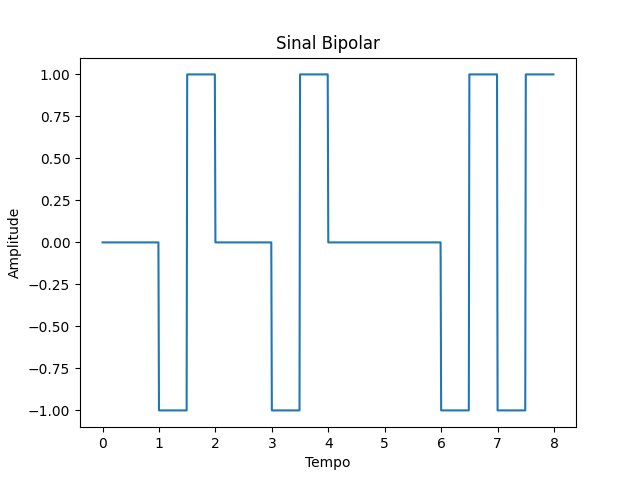
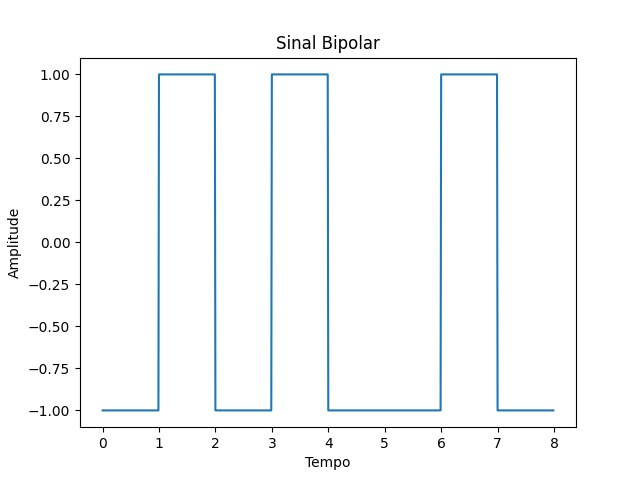
fix/transformei funcoes repetitivas que gastavam muito espaco na memoria em classes para facilitar o uso e a comunicaçao entre elas , alem disso reduzir o erro matematico de 3 funcoes

diff --git a/Modulacao/digital.py b/Modulacao/digital.py
@@ -1,52 +1,76 @@
 import numpy as np
 from math import floor
 
-def NRZ(bit_stream):
-  size = len(bit_stream)
-  signal = np.zeros(size*100).astype(int)
-  n = np.arange(0 , size, 0.01) # Esse é o tempo suficiente para representar o clock que é de 2Bauds
-  for i in range(size*100):
-    if bit_stream[floor(i/100)] == 1:
-      signal[i] = 1
-    else:
-      signal[i] = -1
-  return n, signal
+import numpy as np
+from math import floor
 
-def Clock(size, v0 = -1, v1 = 1):
-  signal = np.zeros(size*100).astype(int)
-  content = v1
+class SignalGenerator:
+    def __init__(self, bit_stream, V):
+        self.bit_stream = bit_stream
+        self.v0 = -V
+        self.v1 = V
+        self.size = len(bit_stream)
+        self.pointsNumber = 100
+        self.time = np.arange(0, self.size, 1/self.pointsNumber)
 
-  for i in range(size*100):
-    if i%50 == 0:
-      content = v1 if content == v0 else v0
-    signal[i] = content
-  return signal
+    def setBitStream(self, bit_stream):
+        self.bit_stream = bit_stream
+        self.size = len(bit_stream)
+        self.time = np.arange(0, self.size, 1/self.pointsNumber)
 
-def Manchester(bit_stream):
+    def setV(self, V):
+        self.Vmin = V
+        self.Vmax = -V
 
-  size = len(bit_stream)
+    def setPointsNumber(self, pointsNumber):
+        self.pointsNumber = pointsNumber
+        self.time = np.arange(0, self.size, 1/self.pointsNumber)
 
-  x , y = NRZ(bit_stream)
-  clock = Clock(size)
-  signal = np.zeros(size*100).astype(int)
+    def NRZ(self):
+        
+        content = 0
+        aux = 0
+        signal = np.zeros(self.size * self.pointsNumber).astype(int)
 
-  for i in range(len(y)):
-    signal[i] =  y[i] ^ clock[i]
+        for i in range(self.size):
+            if self.bit_stream[i] == 1:
+                content = self.v1
+            else:
+              content = self.v0
+            for j in range(self.pointsNumber):
+                signal[aux] = content
+                aux += 1
 
-  return x, signal
-    
-def Bipolar(bit_stream, v0 = -1, v1 = 1):
-  size = len(bit_stream)
-  signal = np.zeros(size*100).astype(int)
-  content = v1
-  n = np.arange(0 , size, 0.01) # Esse é o tempo suficiente para representar o clock que é de 2Bauds
-  for i in range(size*100):
-    if i%50 == 0:
-      content = v1 if content == v0 else v0
-    if bit_stream[floor(i/100)] == 1:
-      signal[i] = content
-    else:
-      signal[i] = 0
-  return n, signal
+        return self.time, signal
+
+    def Clock(self):
+        signal = np.zeros(self.size * 100).astype(int)
+        content = self.v1
+        for i in range(self.size * 100):
+            if i % 50 == 0:
+                content = self.v1 if content == self.v0 else self.v0
+            signal[i] = content
+        return signal
+
+    def Manchester(self):
+        n, y = self.NRZ()
+        clock = self.Clock()
+        signal = np.zeros(self.size * 100).astype(int)
+        for i in range(len(y)):
+            signal[i] = y[i] ^ clock[i]
+        return n, signal
+
+    def Bipolar(self):
+        signal = np.zeros(self.size * 100).astype(int)
+        content = self.v0
+        aux = 0
+
+        for i in range(self.size):
+            content = self.v1 if self.bit_stream[i] == 1 and content == self.v0 else self.v0
+            for j in range(100):
+                signal[aux] = content
+                aux += 1
+
+        return self.time, signal
 
 

diff --git a/Grafica/GeradorDeOndas.py b/Grafica/GeradorDeOndas.py
@@ -1,0 +1,57 @@
+import matplotlib.pyplot as plt
+from Modulacao.analogico import *
+from Modulacao.digital import * 
+from config import get_path
+
+
+class GeradorDeOndas:
+
+    def __init__(self,V):
+        self.bit_stream = []
+        self.Vmax = V
+        self.Vmin = -V
+        self.Digital = False
+        self.GeradorDeOndasDigitais = SignalGenerator(self.bit_stream,V)
+
+    def plotar_sinal(self, sinal ,title, eixo_x, eixo_y , tempo = []):
+        nameFile = title
+
+        if self.Digital: 
+            path = get_path() + "/ImagensPlotadas/Digitais/" + nameFile + ".png" 
+        else:
+            path = get_path() + "/ImagensPlotadas/Analogicas/" + nameFile + ".png"
+
+        plt.plot(tempo , sinal)
+        plt.title(title)
+        plt.xlabel(eixo_x)
+        plt.ylabel(eixo_y)
+
+        plt.savefig(path,format='png')
+        plt.close()
+
+    def GerarOndaNRZ(self):
+        x , y = self.GeradorDeOndasDigitais.NRZ()
+        self.Digital = True
+        self.plotar_sinal(y, "Sinal NRZ", "Tempo", "Amplitude" ,x)
+
+    def GerarOndaManchester(self):
+        x , y = self.GeradorDeOndasDigitais.Manchester()
+        self.Digital = True
+        self.plotar_sinal(y, "Sinal Manchester", "Tempo", "Amplitude",x)
+
+    def GerarOndaBipolar(self):
+        x , y = self.GeradorDeOndasDigitais.Bipolar()
+        self.Digital = True
+        self.plotar_sinal(y, "Sinal Bipolar", "Tempo", "Amplitude",x)
+
+    def BitStream(self, bit_stream):
+        self.bit_stream = bit_stream
+        self.GeradorDeOndasDigitais.setBitStream(bit_stream)
+
+    def GerarOnda(self) :
+        self.GerarOndaNRZ()
+        self.GerarOndaManchester()
+        self.GerarOndaBipolar()
+
+        
+    

diff --git a/main.py b/main.py
@@ -1,23 +1,14 @@
-from Modulacao.digital import * 
-from Grafica.Digital import *
+from Grafica.GeradorDeOndas import GeradorDeOndas
 
 def main():
-    
-    x , y = NRZ([0,1,0,1,0,0,1,1])
 
-    plotar_sinal(y, "Sinal NRZ", "Tempo", "Amplitude" ,x)
+    ondas = GeradorDeOndas(1)
 
-    x = Clock(8)
+    ondas.BitStream([0,1,0,1,0,0,1,1])
 
-    plotar_sinal( x, "Clock", "Tempo", "Amplitude")
+    ondas.GerarOnda()
 
-    x , y = Manchester([0,1,0,1,0,0,1,1])
-
-    plotar_sinal(y, "Sinal Manchester", "Tempo", "Amplitude",x)
-
-    x,y = Bipolar([0,1,0,1,0,0,1,1])
-
-    plotar_sinal(y, "Sinal Bipolar", "Tempo", "Amplitude",x)
+    #plotar_sinal(y, "Sinal ASK", "Tempo", "Amplitude",x,"analogico")
 
 if __name__ == '__main__':
     main()

diff --git a/Modulacao/analogico.py b/Modulacao/analogico.py
@@ -1,10 +1,17 @@
 import numpy as np
 
-def afk(A, f , bit_stream):
+def ask(A, f , bit_stream):
   size = len(bit_stream)
-  signal = np.zeros(size)
-  n = [signal in range(size)]
+  signal = np.zeros(size*100)
+  t = np.arange(0, size*100 ,1/100)
+  
+  for i in range(size):
+    for j in range(100):
+      signal[j*i] = 1
+        
+     
+    
 
-  print(n)
+  return t , signal
     
 
